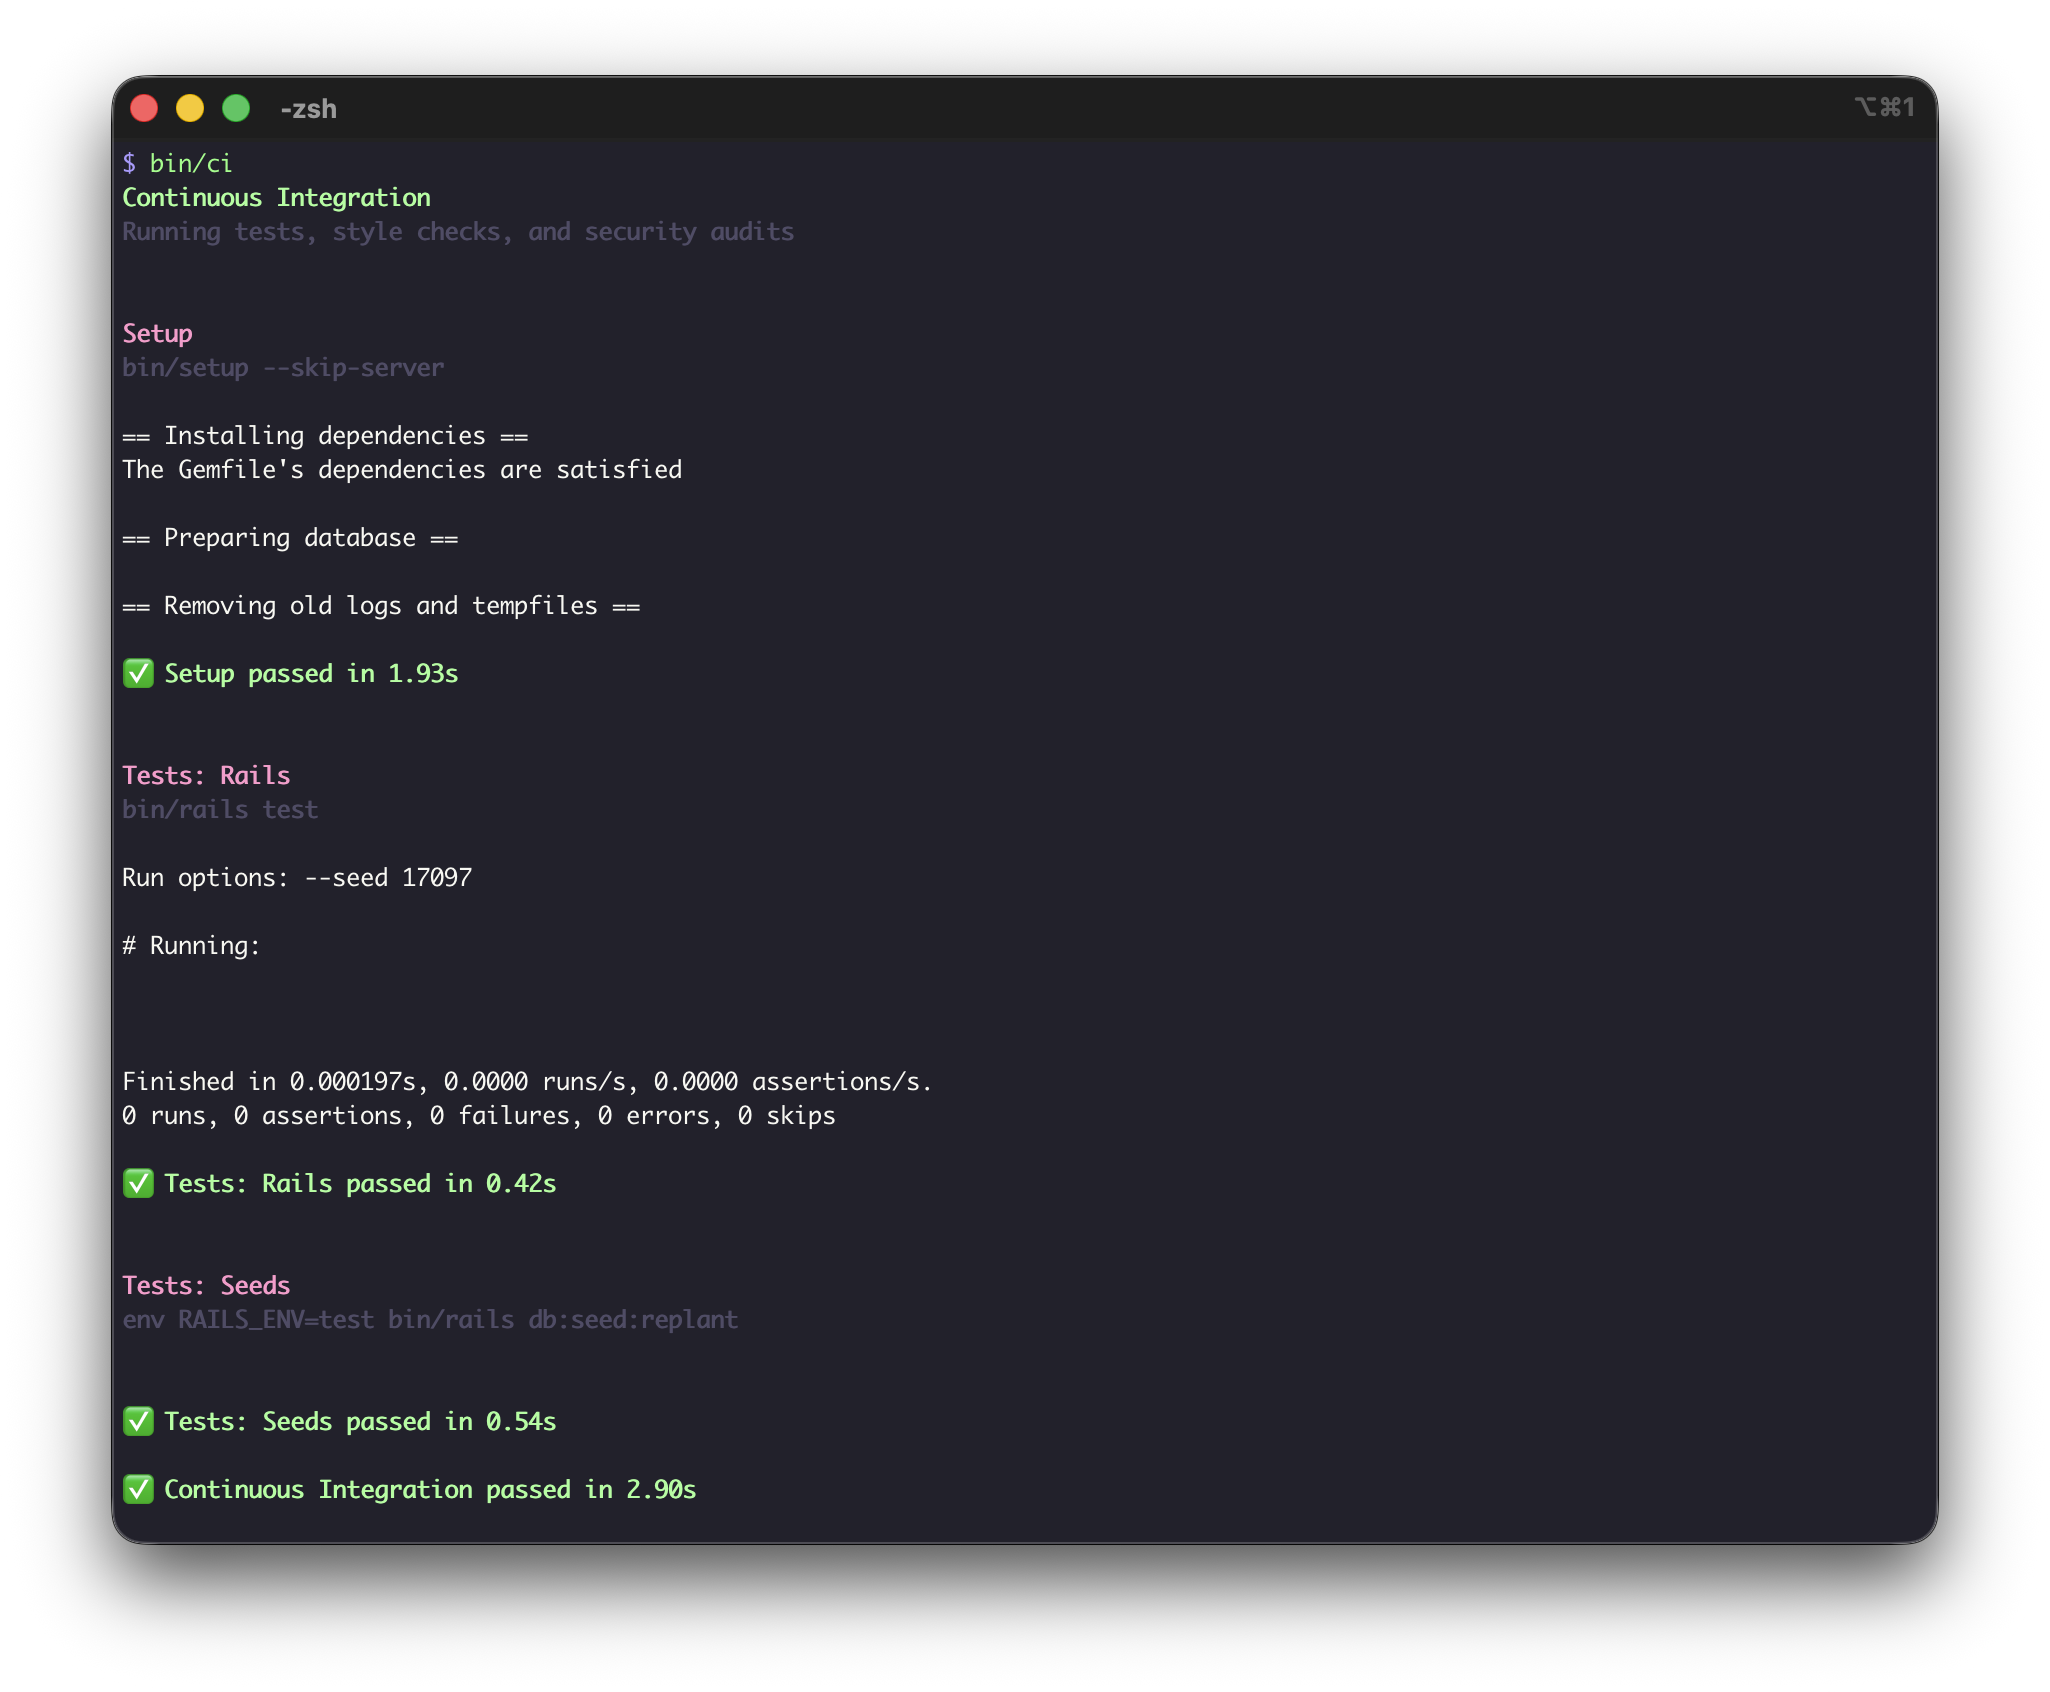
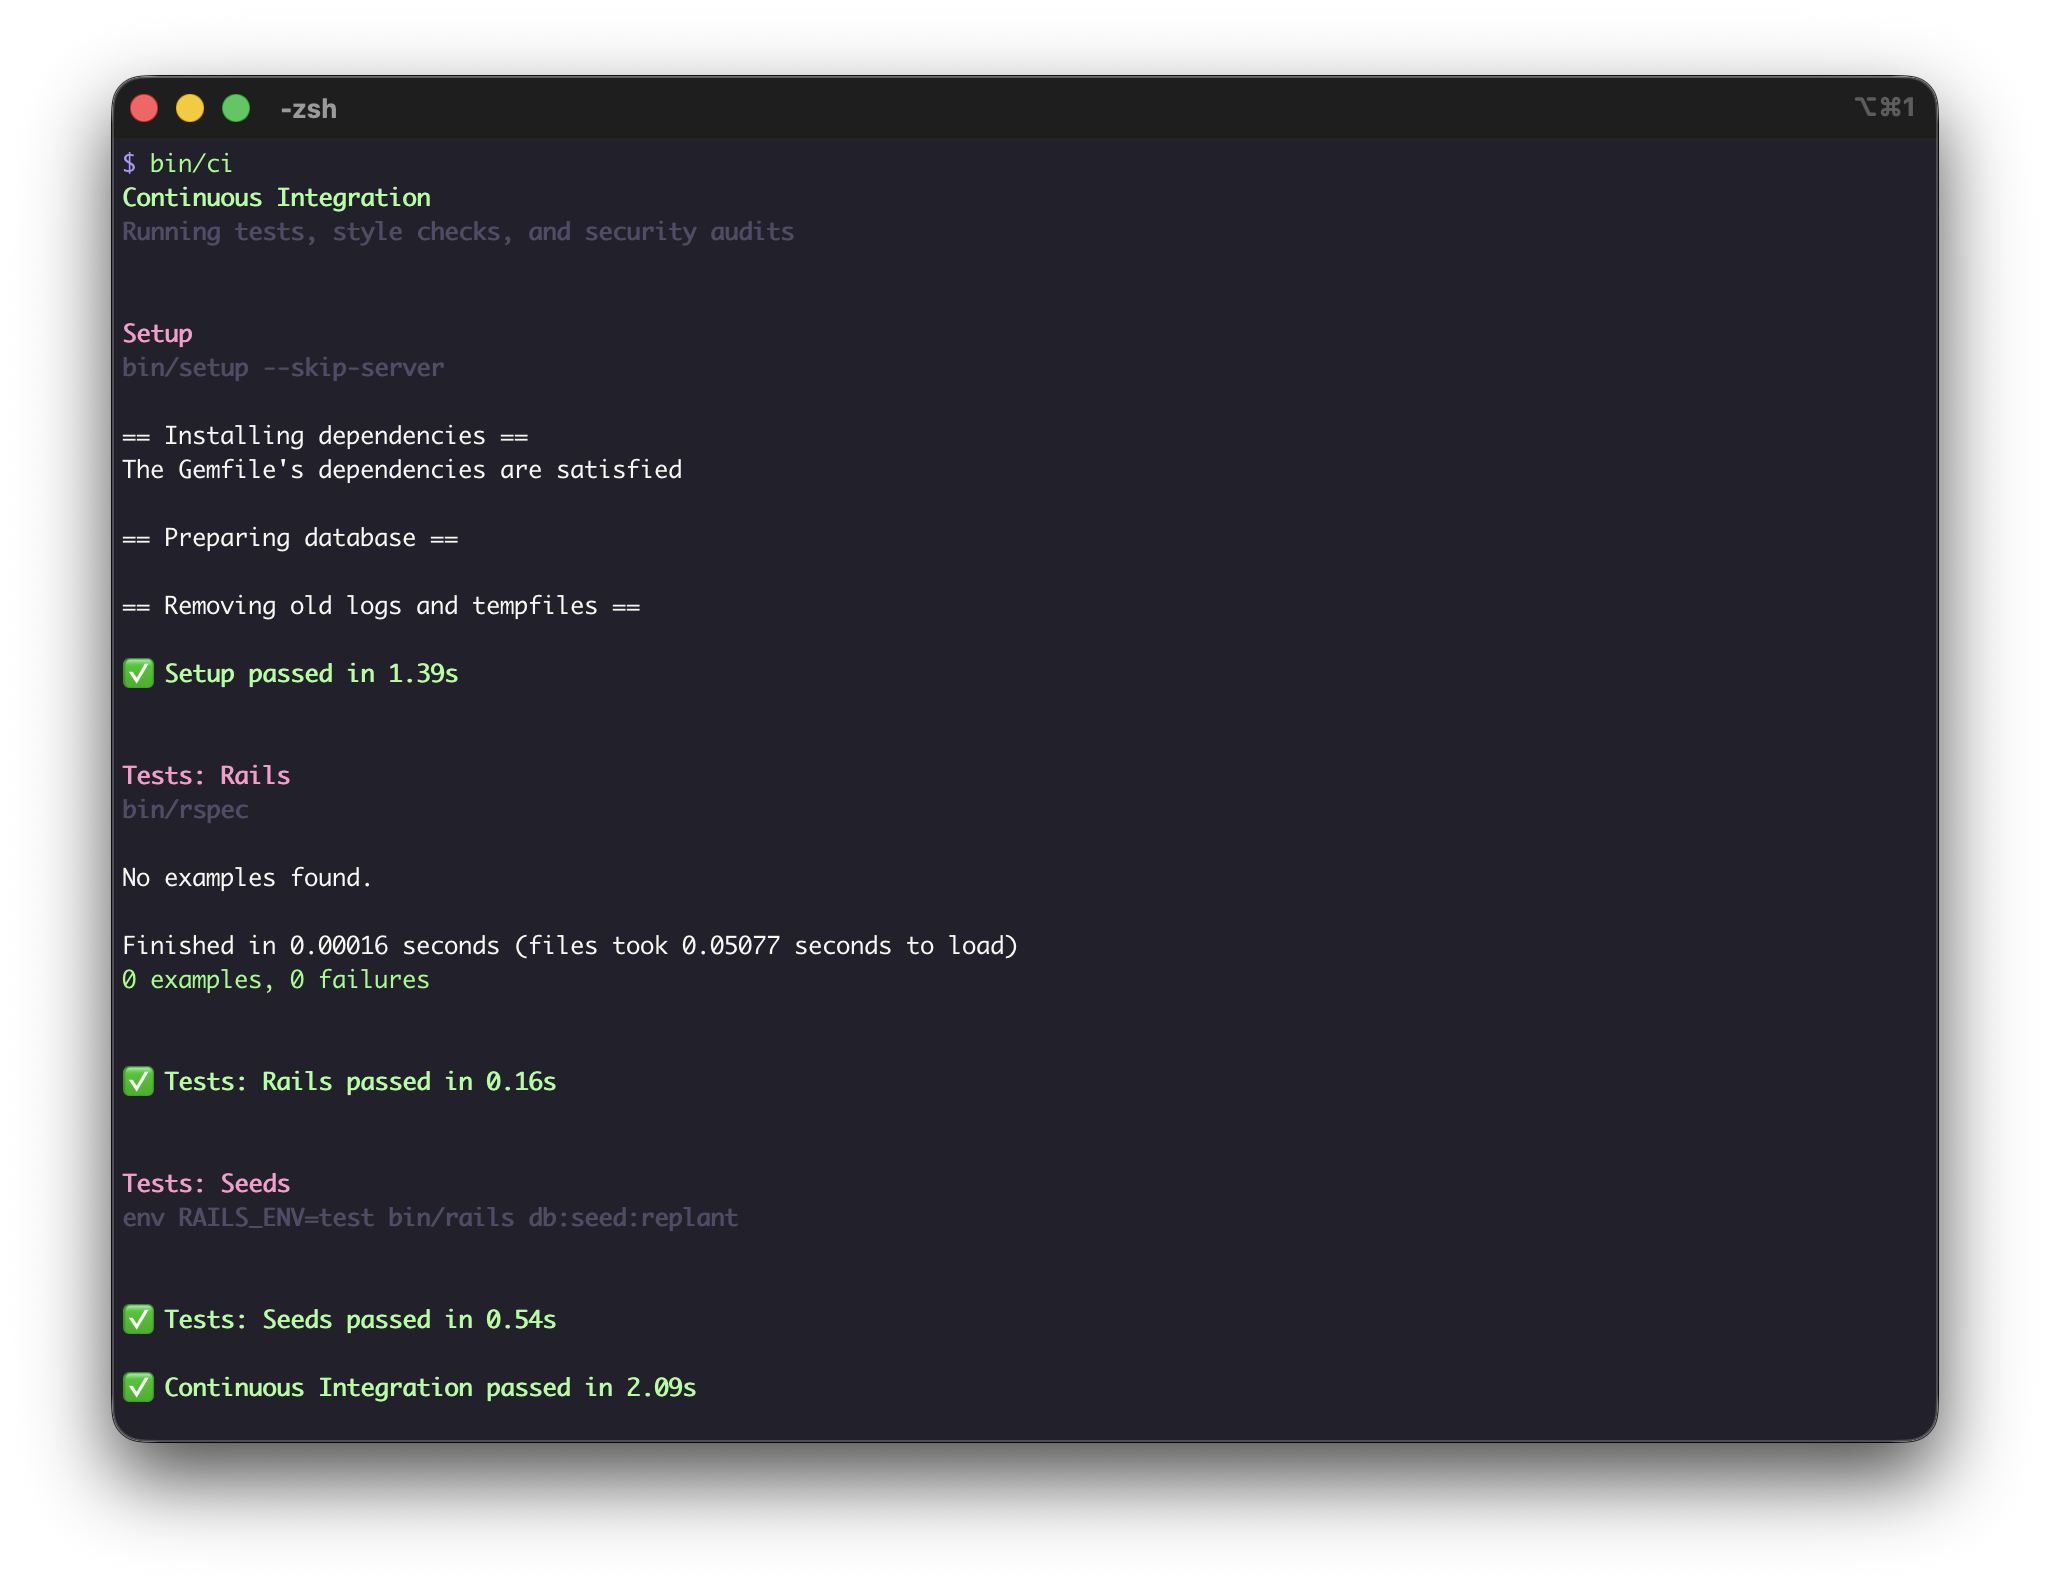
update readme with CI output after setting up rspec for tests step

diff --git a/README.md b/README.md
@@ -43,22 +43,19 @@ The Gemfile's dependencies are satisfied
 
 == Removing old logs and tempfiles ==
 
-✅ Setup passed in 1.93s
+✅ Setup passed in 1.39s
 
 
 Tests: Rails
-bin/rails test
+bin/rspec
 
-Run options: --seed 17097
+No examples found.
 
-# Running:
+Finished in 0.00016 seconds (files took 0.05077 seconds to load)
+0 examples, 0 failures
 
 
-
-Finished in 0.000197s, 0.0000 runs/s, 0.0000 assertions/s.
-0 runs, 0 assertions, 0 failures, 0 errors, 0 skips
-
-✅ Tests: Rails passed in 0.42s
+✅ Tests: Rails passed in 0.16s
 
 
 Tests: Seeds
@@ -67,7 +64,7 @@ env RAILS_ENV=test bin/rails db:seed:replant
 
 ✅ Tests: Seeds passed in 0.54s
 
-✅ Continuous Integration passed in 2.90s
+✅ Continuous Integration passed in 2.09s
 ```
 
 ## Screenshots
